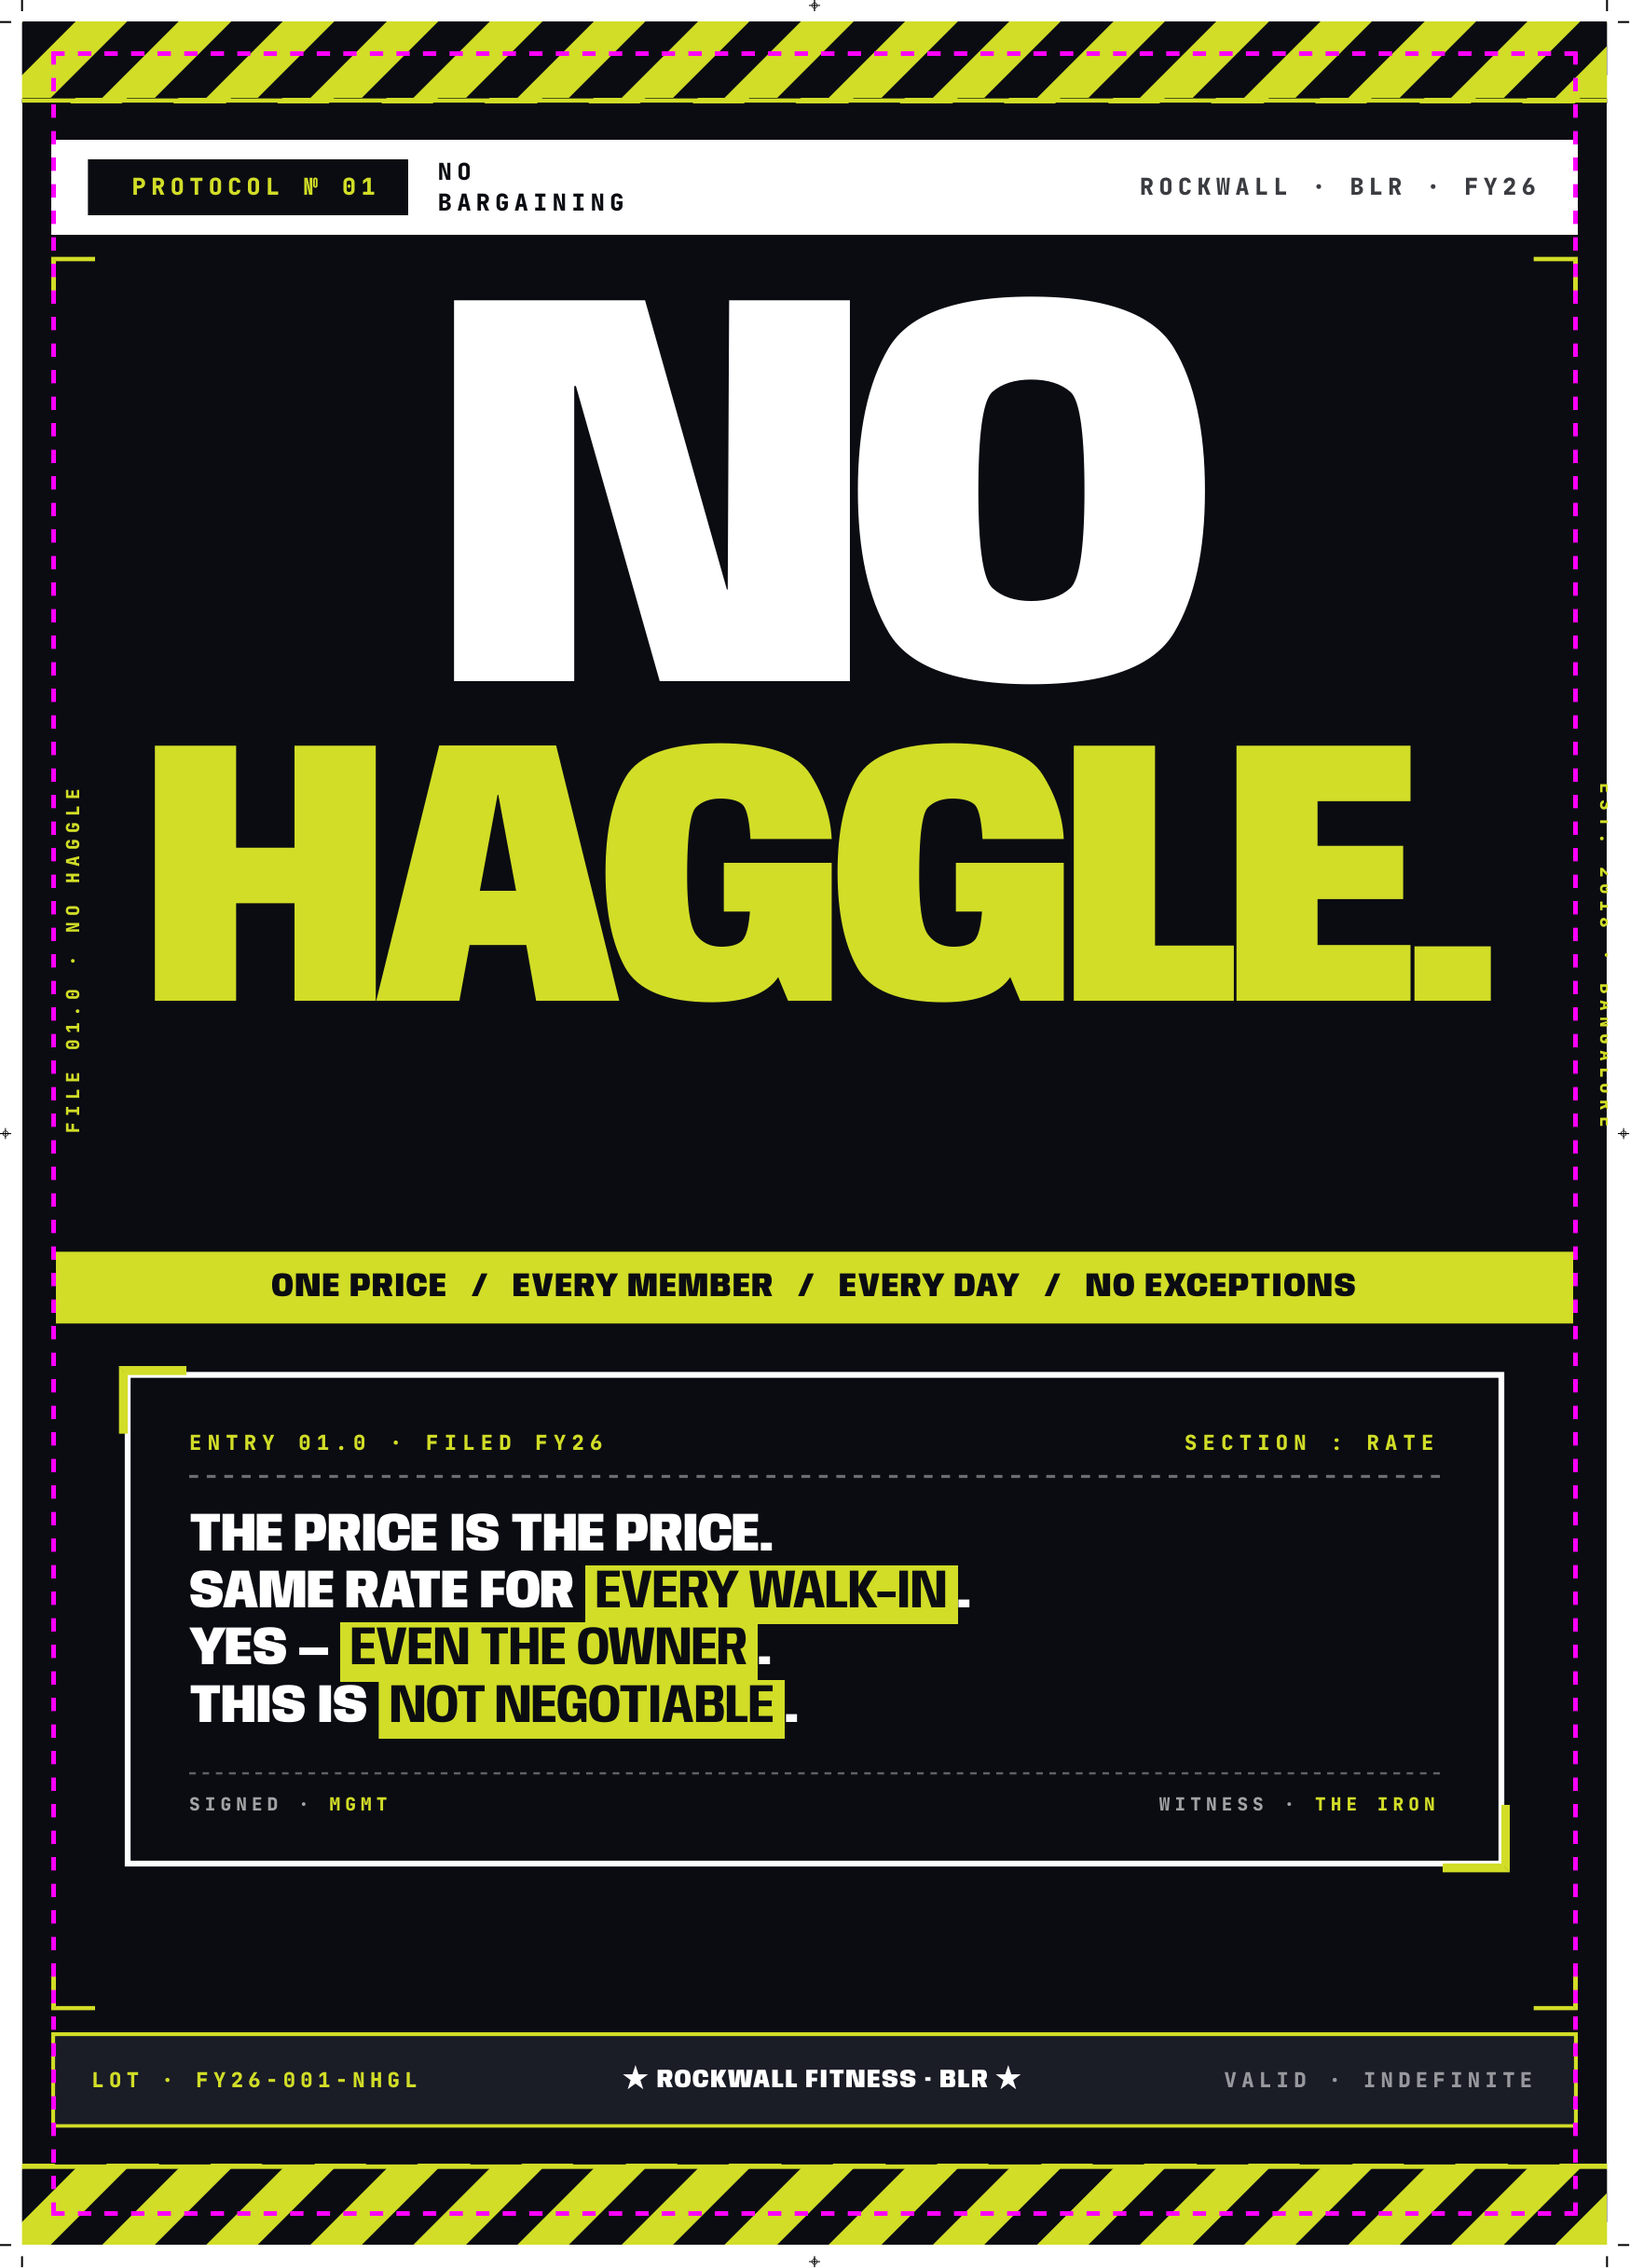
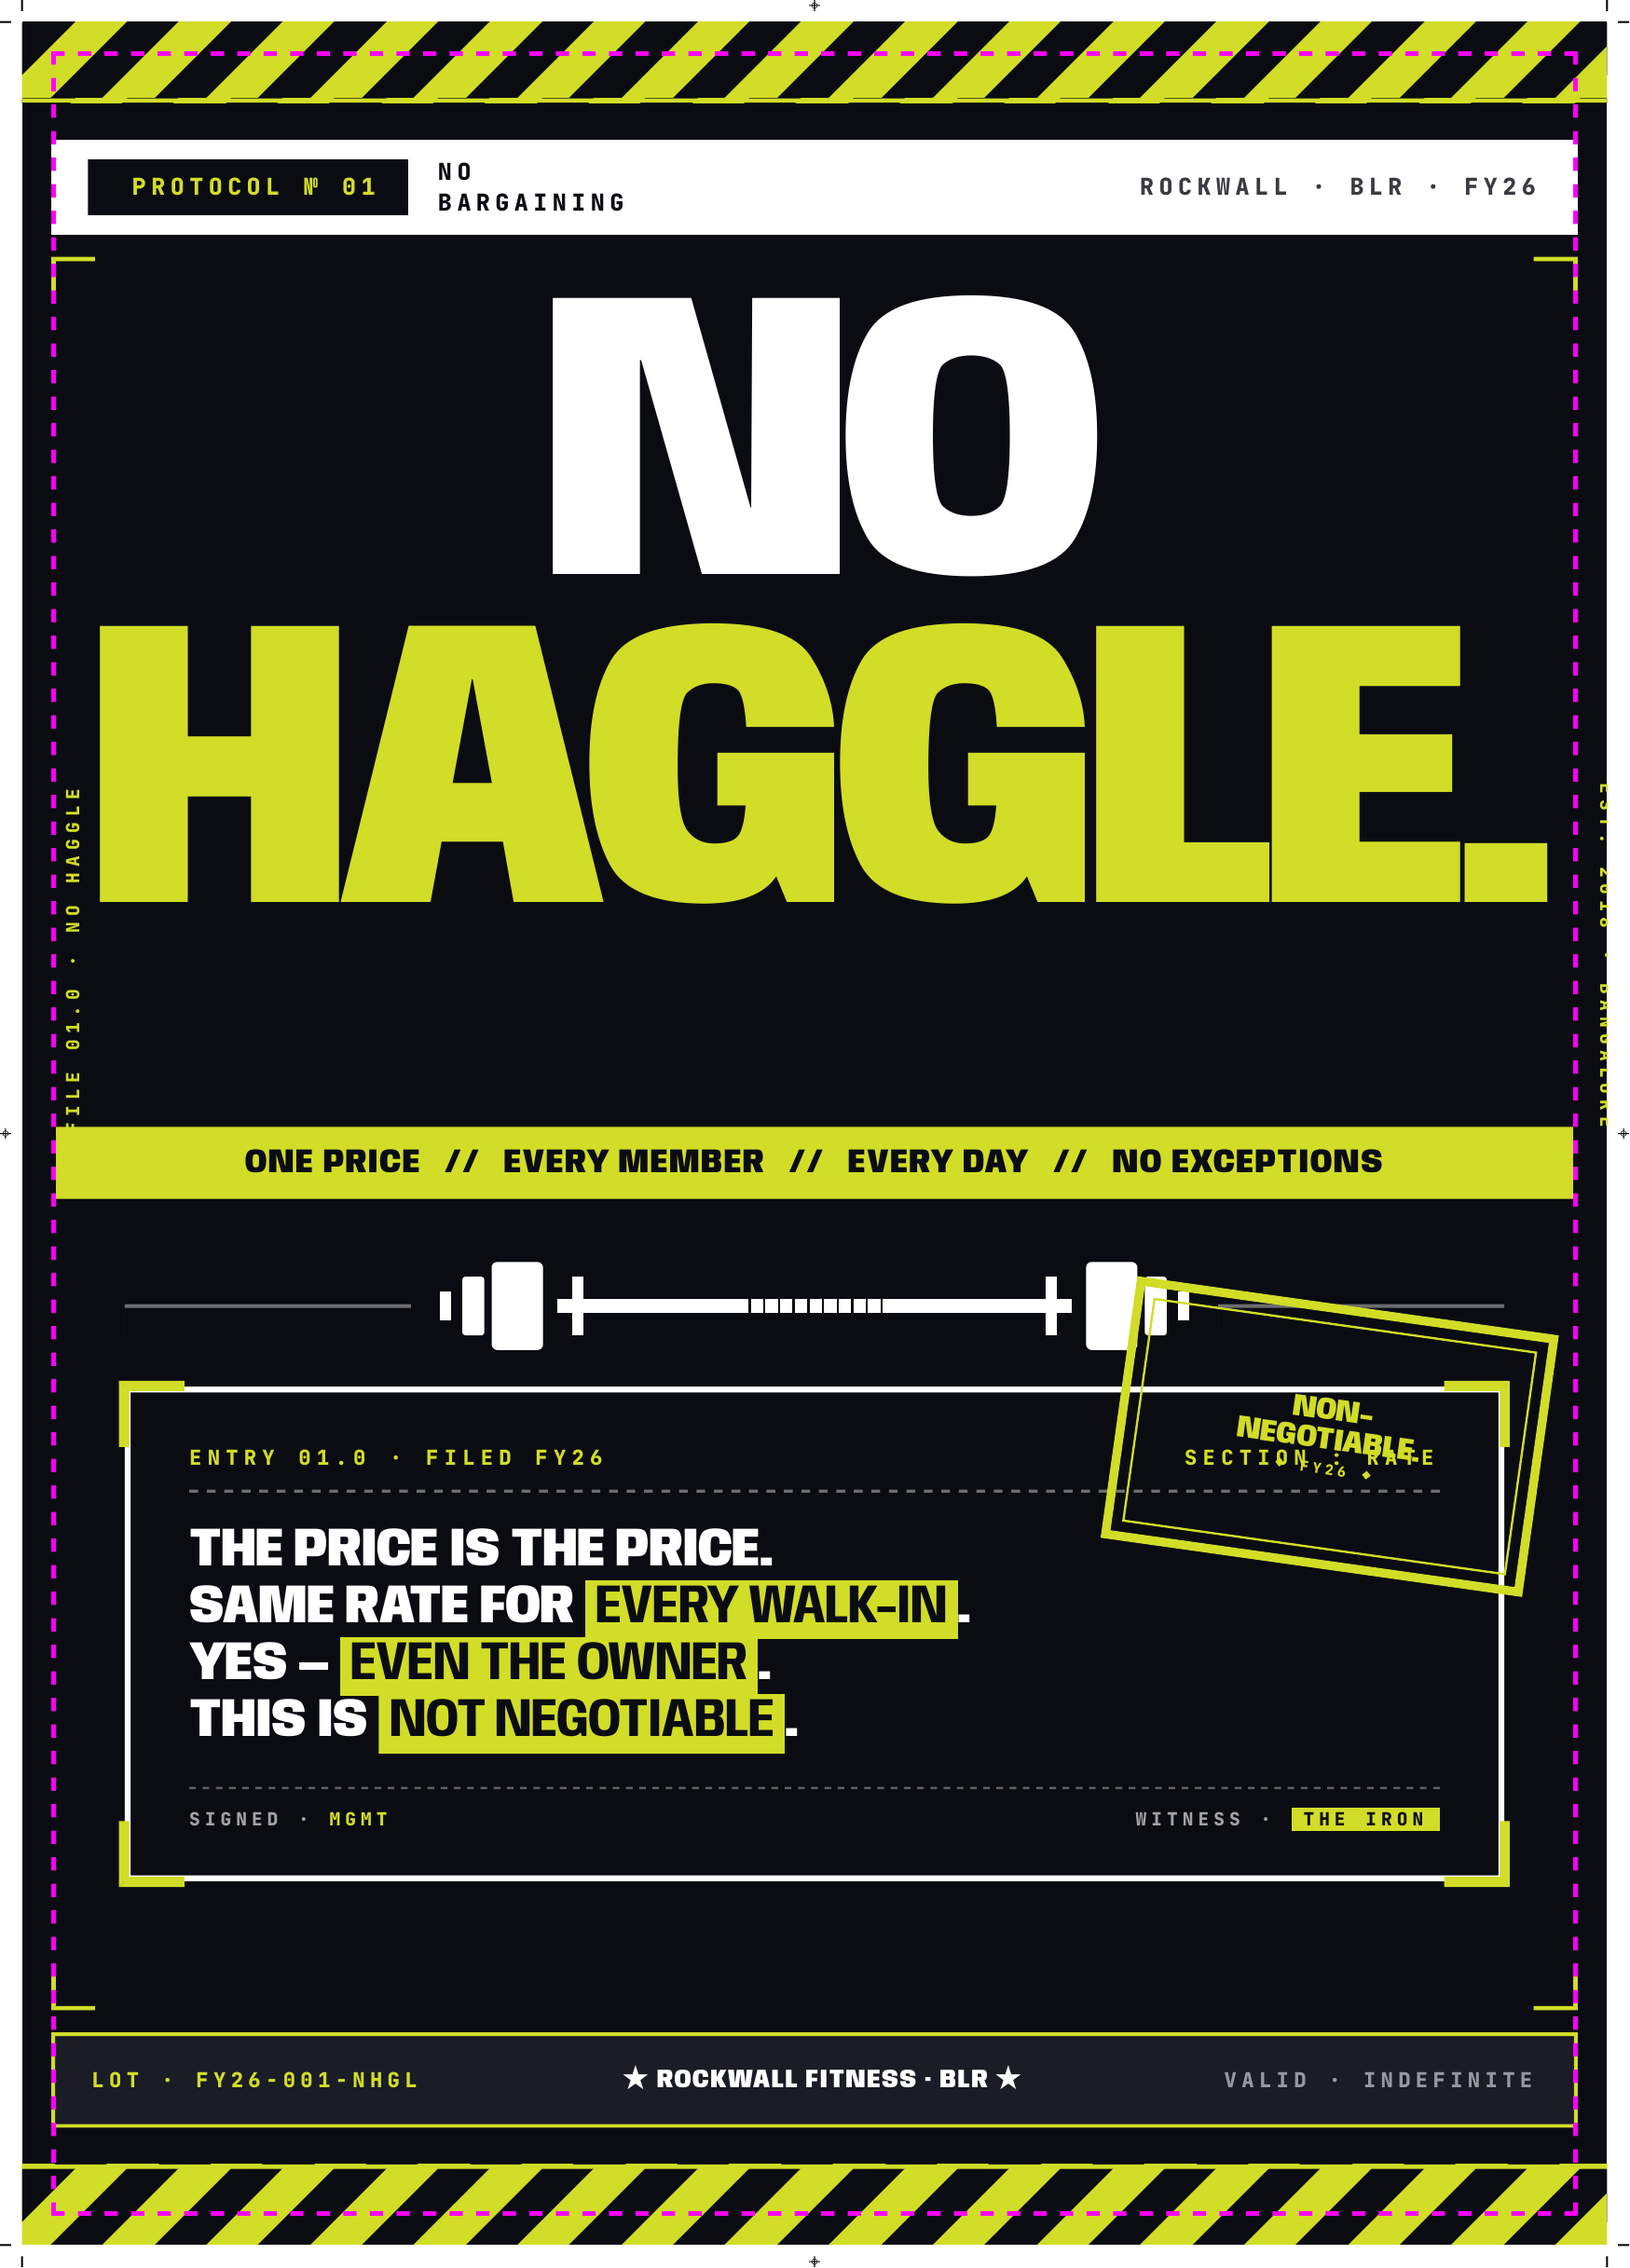
Front-desk v10.1 — brutalist audit & fixes
Six audit findings on v10, all applied:

1. Hero hierarchy rebalanced
   - was: NO 218pt wdth-110, HAGGLE 146pt wdth-75  (NO dominated)
   - now: NO 158pt wdth-130, HAGGLE 158pt wdth-75  (equal height,
          NO extended width / HAGGLE compressed width — both fill
          the same visual area despite different char counts)
   - HAGGLE. is the actual word being rejected, so it deserves
     equal billing.

2. Entry-box corner brackets — was 2-corner (TL + BR), now 4-corner
   (TL + TR + BL + BR). Half-finished became fully framed.

3. NON-NEGOTIABLE. rubber-stamp seal added — double-ring lime stamp
   rotated +8°, slammed across the top-right corner of the entry box,
   overlapping only the 'SECTION : RATE' header (not the punchline).
   Reads as a real sealed protocol document.

4. WITNESS · THE IRON — was small mono, easy to miss.
   Now: THE IRON gets a lime-knockout chip on ink. The punchline
   lands without being shouted.

5. Barbell silhouette divider added between sub-bar and entry box —
   industrial spec drawing: knurled grip, 3 plates per sleeve, white
   on black, datum lines extending left/right at 40% opacity. Gym
   signal anchored to the page geometry, not as decoration.

6. Sub-bar separators: / → //
   Single slash reads web/digital; double-slash reads code-comment /
   industrial / tactical. Tiny change, register matters.

Layout shifts: sub-bar moved up to 150mm (was 167mm) to make room
for the 16mm barbell band at 167mm. Entry box pushed to 186mm.

Changed region(s): [[0.0309, 0.4996, 0.988, 0.8431], [0.0617, 0.1249, 0.9571, 0.4684]]

diff --git a/sticker_nobargain.html b/sticker_nobargain.html
@@ -87,12 +87,12 @@
     display: block;
   }
   .line-1 {
-    font-size: 218pt; color: var(--paper);
-    margin-bottom: -2mm;
-    font-variation-settings: "wdth" 110;
+    font-size: 158pt; color: var(--paper);
+    margin-bottom: -1mm;
+    font-variation-settings: "wdth" 130;
   }
   .line-2 {
-    font-size: 146pt; color: var(--lime);
+    font-size: 158pt; color: var(--lime);
     margin-top: 0;
     font-variation-settings: "wdth" 75;
   }
@@ -101,7 +101,7 @@
      SUB-BAR — lime declaration strip
      ───────────────────────────────────────── */
   .subbar {
-    position: absolute; top: 167mm; left: 4mm; right: 4mm;
+    position: absolute; top: 150mm; left: 4mm; right: 4mm;
     height: 11mm;
     background: var(--lime); color: var(--ink);
     display: flex; align-items: center; justify-content: center;
@@ -119,27 +119,23 @@
      PROTOCOL ENTRY BLOCK — white-bordered manifesto
      ───────────────────────────────────────── */
   .entry {
-    position: absolute; top: 184mm; left: 14mm; right: 14mm;
+    position: absolute; top: 186mm; left: 14mm; right: 14mm;
     border: 0.8mm solid var(--paper);
     padding: 7mm 8mm 6mm;
     color: var(--paper);
     z-index: 5;
   }
-  .entry::before {
-    /* small lime corner brackets */
-    content: ''; position: absolute;
-    top: -1.6mm; left: -1.6mm;
-    width: 8mm; height: 8mm;
-    border-top: 1.2mm solid var(--lime);
-    border-left: 1.2mm solid var(--lime);
+  .entry .br-tl, .entry .br-tr, .entry .br-bl, .entry .br-br {
+    position: absolute; width: 9mm; height: 9mm;
   }
-  .entry::after {
-    content: ''; position: absolute;
-    bottom: -1.6mm; right: -1.6mm;
-    width: 8mm; height: 8mm;
-    border-bottom: 1.2mm solid var(--lime);
-    border-right: 1.2mm solid var(--lime);
-  }
+  .entry .br-tl { top: -1.6mm; left: -1.6mm;
+    border-top: 1.4mm solid var(--lime); border-left: 1.4mm solid var(--lime); }
+  .entry .br-tr { top: -1.6mm; right: -1.6mm;
+    border-top: 1.4mm solid var(--lime); border-right: 1.4mm solid var(--lime); }
+  .entry .br-bl { bottom: -1.6mm; left: -1.6mm;
+    border-bottom: 1.4mm solid var(--lime); border-left: 1.4mm solid var(--lime); }
+  .entry .br-br { bottom: -1.6mm; right: -1.6mm;
+    border-bottom: 1.4mm solid var(--lime); border-right: 1.4mm solid var(--lime); }
   .entry .hdr {
     font-family: 'JetBrains Mono', monospace;
     font-weight: 800; font-size: 8pt; letter-spacing: 0.28em;
@@ -167,6 +163,62 @@
     display: flex; justify-content: space-between;
   }
   .entry .meta b { color: var(--lime); font-weight: 800; }
+  .entry .meta .iron {
+    color: var(--lime); font-weight: 800;
+    background: var(--lime); color: var(--ink);
+    padding: 0.4mm 1.6mm;
+  }
+
+  /* ─────────────────────────────────────────
+     BARBELL DIVIDER BAND — between sub-bar and entry
+     ───────────────────────────────────────── */
+  .barbell-band {
+    position: absolute; top: 167mm; left: 14mm; right: 14mm;
+    height: 16mm;
+    display: flex; align-items: center; justify-content: center;
+    z-index: 4;
+  }
+  .barbell-band svg { width: 110mm; height: 14mm; display: block; }
+  .barbell-band .l, .barbell-band .r {
+    flex: 1; height: 0.5mm; background: var(--paper); opacity: 0.4;
+  }
+
+  /* ─────────────────────────────────────────
+     NON-NEGOTIABLE RUBBER STAMP
+     ───────────────────────────────────────── */
+  .stampseal {
+    position: absolute;
+    top: -12mm; right: -6mm;
+    width: 58mm; height: 36mm;
+    transform: rotate(8deg);
+    z-index: 12;
+  }
+  .stampseal .ring {
+    width: 100%; height: 100%;
+    border: 1.2mm solid var(--lime);
+    background: transparent;
+    display: flex; align-items: center; justify-content: center;
+    position: relative;
+    padding: 0;
+  }
+  .stampseal .ring::before {
+    content: ''; position: absolute;
+    top: 1.4mm; left: 1.4mm; right: 1.4mm; bottom: 1.4mm;
+    border: 0.3mm solid var(--lime);
+  }
+  .stampseal .t {
+    font-family: 'Anybody', sans-serif;
+    font-weight: 900; font-variation-settings: "wdth" 110;
+    font-size: 12pt; line-height: 0.95; color: var(--lime);
+    text-transform: uppercase; text-align: center;
+    letter-spacing: -0.01em;
+  }
+  .stampseal .t small {
+    display: block;
+    font-family: 'JetBrains Mono', monospace;
+    font-weight: 800; font-size: 5.5pt;
+    letter-spacing: 0.28em; margin-top: 1mm;
+  }
 
   /* ─────────────────────────────────────────
      BOTTOM SERIAL STRIP
@@ -253,11 +305,49 @@
 
     <!-- sub-bar -->
     <div class="subbar">
-      <span>ONE PRICE</span><i>/</i><span>EVERY MEMBER</span><i>/</i><span>EVERY DAY</span><i>/</i><span>NO EXCEPTIONS</span>
+      <span>ONE PRICE</span><i>//</i><span>EVERY MEMBER</span><i>//</i><span>EVERY DAY</span><i>//</i><span>NO EXCEPTIONS</span>
+    </div>
+
+    <!-- barbell divider band -->
+    <div class="barbell-band">
+      <span class="l"></span>
+      <svg viewBox="0 0 220 28" xmlns="http://www.w3.org/2000/svg">
+        <!-- bar (knurled grip middle) -->
+        <rect x="40" y="12" width="140" height="4" fill="#FFFFFF"/>
+        <!-- knurl marks on bar -->
+        <g fill="#0B0C12">
+          <rect x="92" y="12" width="0.6" height="4"/>
+          <rect x="96" y="12" width="0.6" height="4"/>
+          <rect x="100" y="12" width="0.6" height="4"/>
+          <rect x="104" y="12" width="0.6" height="4"/>
+          <rect x="108" y="12" width="0.6" height="4"/>
+          <rect x="112" y="12" width="0.6" height="4"/>
+          <rect x="116" y="12" width="0.6" height="4"/>
+          <rect x="120" y="12" width="0.6" height="4"/>
+          <rect x="124" y="12" width="0.6" height="4"/>
+          <rect x="128" y="12" width="0.6" height="4"/>
+        </g>
+        <!-- inner collars -->
+        <rect x="44" y="6" width="3" height="16" fill="#FFFFFF"/>
+        <rect x="173" y="6" width="3" height="16" fill="#FFFFFF"/>
+        <!-- big plates -->
+        <rect x="22" y="2" width="14" height="24" rx="1.5" fill="#FFFFFF"/>
+        <rect x="184" y="2" width="14" height="24" rx="1.5" fill="#FFFFFF"/>
+        <!-- small plates -->
+        <rect x="14" y="6" width="6" height="16" rx="0.8" fill="#FFFFFF"/>
+        <rect x="200" y="6" width="6" height="16" rx="0.8" fill="#FFFFFF"/>
+        <!-- mini plates -->
+        <rect x="8" y="10" width="3" height="8" fill="#FFFFFF"/>
+        <rect x="209" y="10" width="3" height="8" fill="#FFFFFF"/>
+      </svg>
+      <span class="r"></span>
     </div>
 
     <!-- protocol entry box -->
     <div class="entry">
+      <div class="br-tl"></div><div class="br-tr"></div>
+      <div class="br-bl"></div><div class="br-br"></div>
+
       <div class="hdr"><span>ENTRY 01.0 &middot; FILED FY26</span><span>SECTION : RATE</span></div>
       <div class="stmt">
         THE PRICE IS THE PRICE.<br>
@@ -265,7 +355,14 @@
         YES &mdash; <b>EVEN THE OWNER</b>.<br>
         THIS IS <b>NOT NEGOTIABLE</b>.
       </div>
-      <div class="meta"><span>SIGNED &middot; <b>MGMT</b></span><span>WITNESS &middot; <b>THE IRON</b></span></div>
+      <div class="meta"><span>SIGNED &middot; <b>MGMT</b></span><span>WITNESS &middot; <span class="iron">THE IRON</span></span></div>
+
+      <!-- rubber-stamp seal -->
+      <div class="stampseal">
+        <div class="ring">
+          <div class="t">NON-<br>NEGOTIABLE.<small>&#9670; FY26 &#9670;</small></div>
+        </div>
+      </div>
     </div>
 
     <!-- bottom serial strip -->
